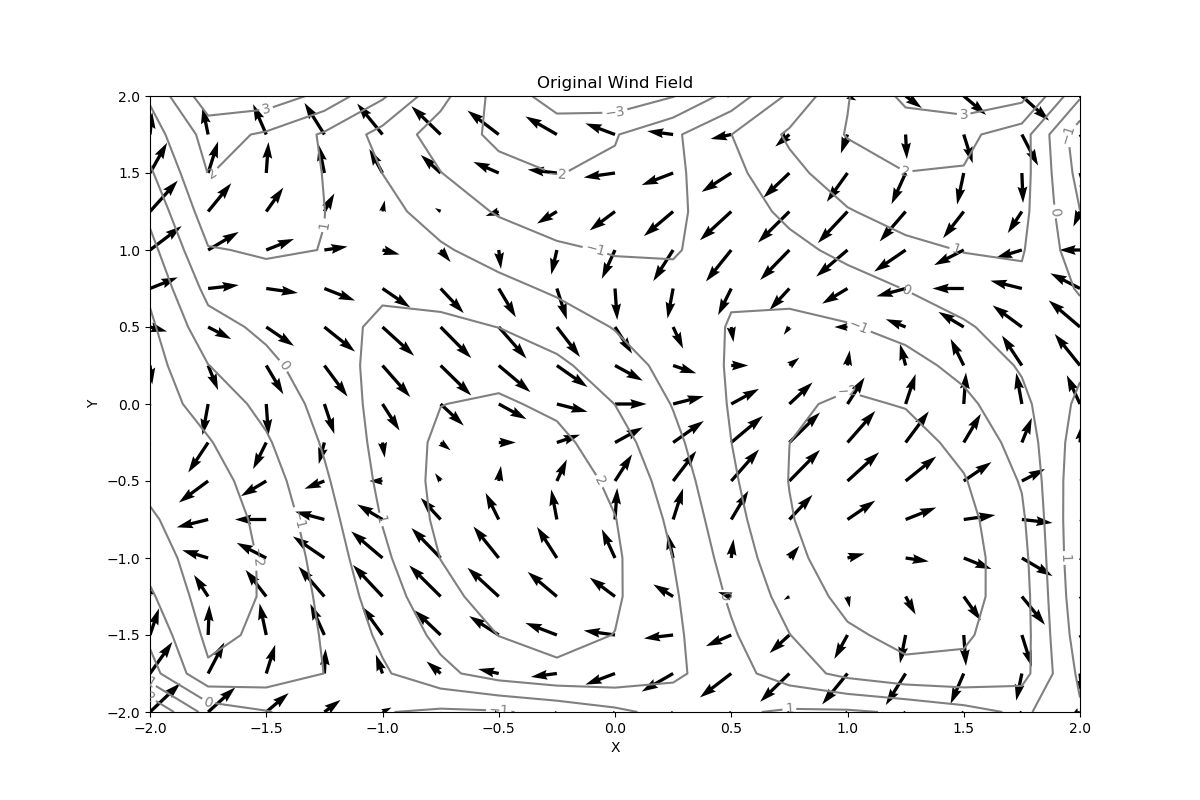
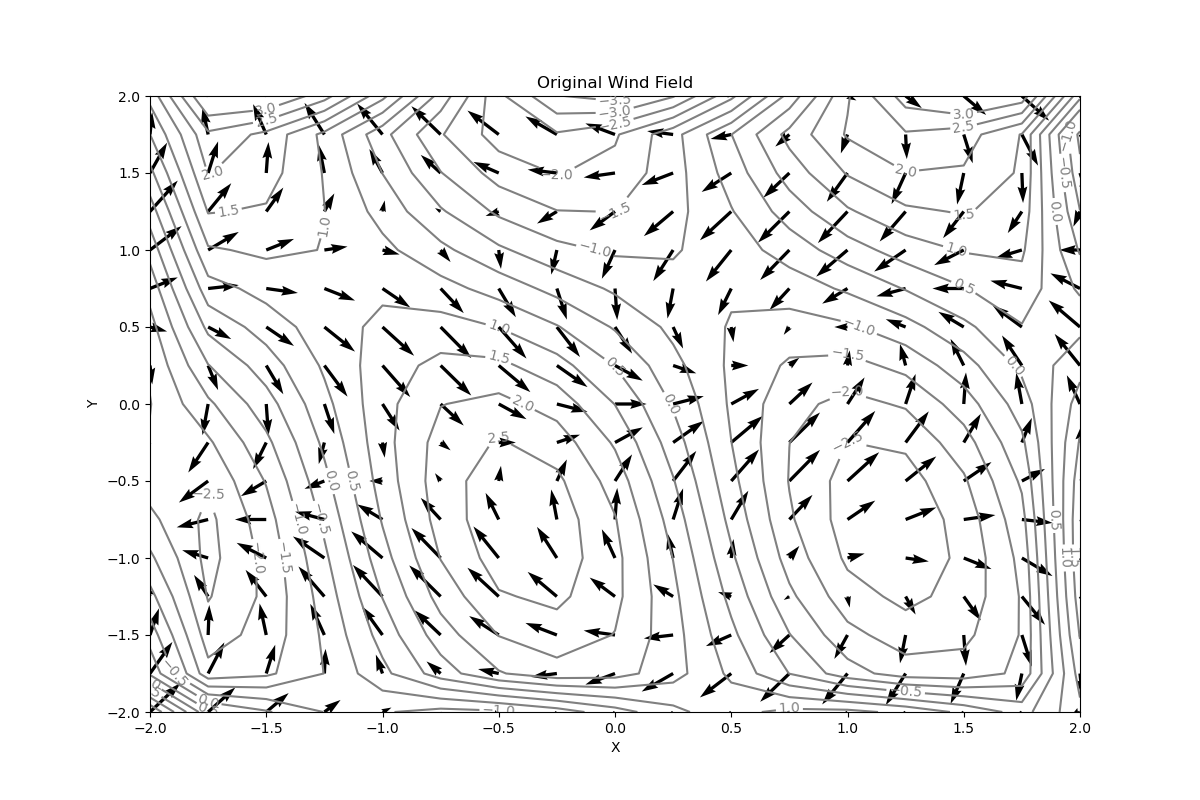
make run

diff --git a/作业7/191830227_赵志宇_计算方法_第7次实习报告/plot_wind.py b/作业7/191830227_赵志宇_计算方法_第7次实习报告/plot_wind.py
@@ -53,7 +53,7 @@ plt.subplots(figsize=(12, 8))
 plt.xlabel('X')
 plt.ylabel('Y')
 
-contour = plt.contour(x, y, D, colors='gray', linestyles='-')
+contour = plt.contour(x, y, D, np.arange(-4, 3.5, 0.5), colors='gray', linestyles='-')
 plt.clabel(contour, fontsize=10, colors='gray')
 plt.quiver(x, y, U, V)
 plt.title('Original Wind Field')
